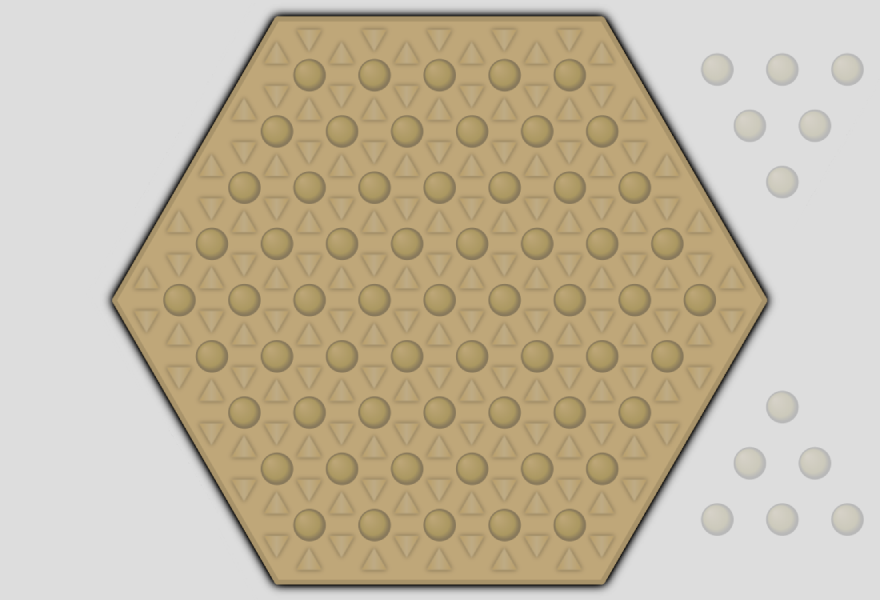
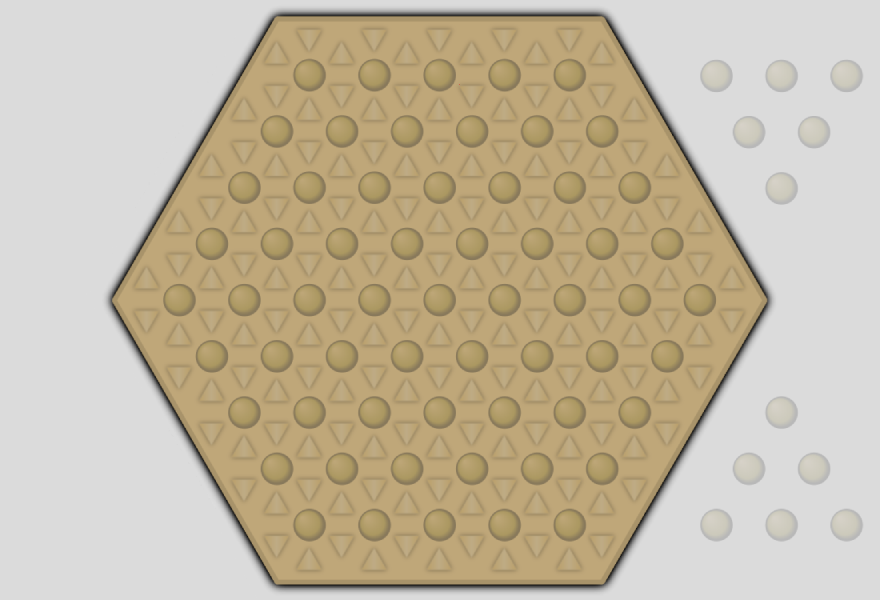
completed the readme, test removal of marbles , added out_coordinates , added example of sumito in doc

diff --git a/main.py b/main.py
@@ -71,7 +71,10 @@ class window(pyglet.window.Window):
         self.draw_board(debug=debug)
 
     def draw_token(self, pos, player=1, debug=True):
-        cell = {}
+        cell = {
+            'pos':pos,
+            'out':False
+        }
 
         # compute the coords from the pos
         x, y = self.theme['coordinates'][pos]
@@ -109,8 +112,24 @@ class window(pyglet.window.Window):
         return 
 
     def on_mouse_press(self, x, y, button, modifiers):
-        print(x, y)
-        print(self.is_marbles_clicked(x, y))
+        print(f'({x}, {y})')
+        pos = self.is_marbles_clicked(x, y)
+        if pos != -1:
+            player_token = self.game.action(pos)
+            player = player_token - 1
+            # find the cell
+            for cell in self.players_cells[player]:
+                if cell['pos'] == pos:
+                    damage_index = self.game.players_damages[player]
+                    new_x, new_y = self.theme['out_coordinates'][player][damage_index]
+                    cell['sprite'].update(x=new_x, y=new_y)
+                    # increase damage
+                    self.game.players_damages[player] += 1
+                    break
+            
+
+
+
 
     def is_marbles_clicked(self, x, y):
         """

diff --git a/README.md b/README.md
@@ -39,14 +39,20 @@ There is two possible directions :
 
 #### Pushing-the-opponent
 
-**Sumito** 
+**Sumito**
+
 In order to push opponent's marbles, one needs to be in one of the Sumito's situation.
 i.e. the player must have the numerical superiority.
--	3 vs 2
--	3 vs 1
--	2 vs 1
+
+
+| Sumito              | Diagram                                           |
+| :---:               | :---:                                             |
+| A "3-push-2 Sumito" | <img src="docs/rules/sumito/3vs2.png" width=100%> |
+| A "3-push-1 Sumito" | <img src="docs/rules/sumito/3vs1.png" width=100%> |
+| A "2-push-1 Sumito" | <img src="docs/rules/sumito/3vs1.png" width=100%> |
 
 **PAC**
+
 Another important rule in Abalone concerns "Pac" situations. In these situations, iT is impossible for 
 Players can't perform Sumito moves in theses situations because none of them have the numerical lead.
 -	1 vs 1
@@ -65,7 +71,7 @@ See all the supported [variations](https://github.com/towzeur/script/80/)
 
 There are several possible placements to start with, the most popular are :
 -   « La formation Standard » proposée par les concepteurs du jeu.
--   
+-   é
 
 In 1999, a number of top players from the Mind Sports Olympiad signed an agreement to use a different starting position (the Belgian daisy) to revitalize the game. This has been used for top tournaments since then, including the AbaCup.
 
@@ -90,7 +96,7 @@ while not done:
 
 ## TODO
 
-- [x] Foo
-- [x] Bar
-- [ ] Baz
+- [X] detect pos on click
+- [X] add out_coordinates for removed marbles
+- [ ] 
 
